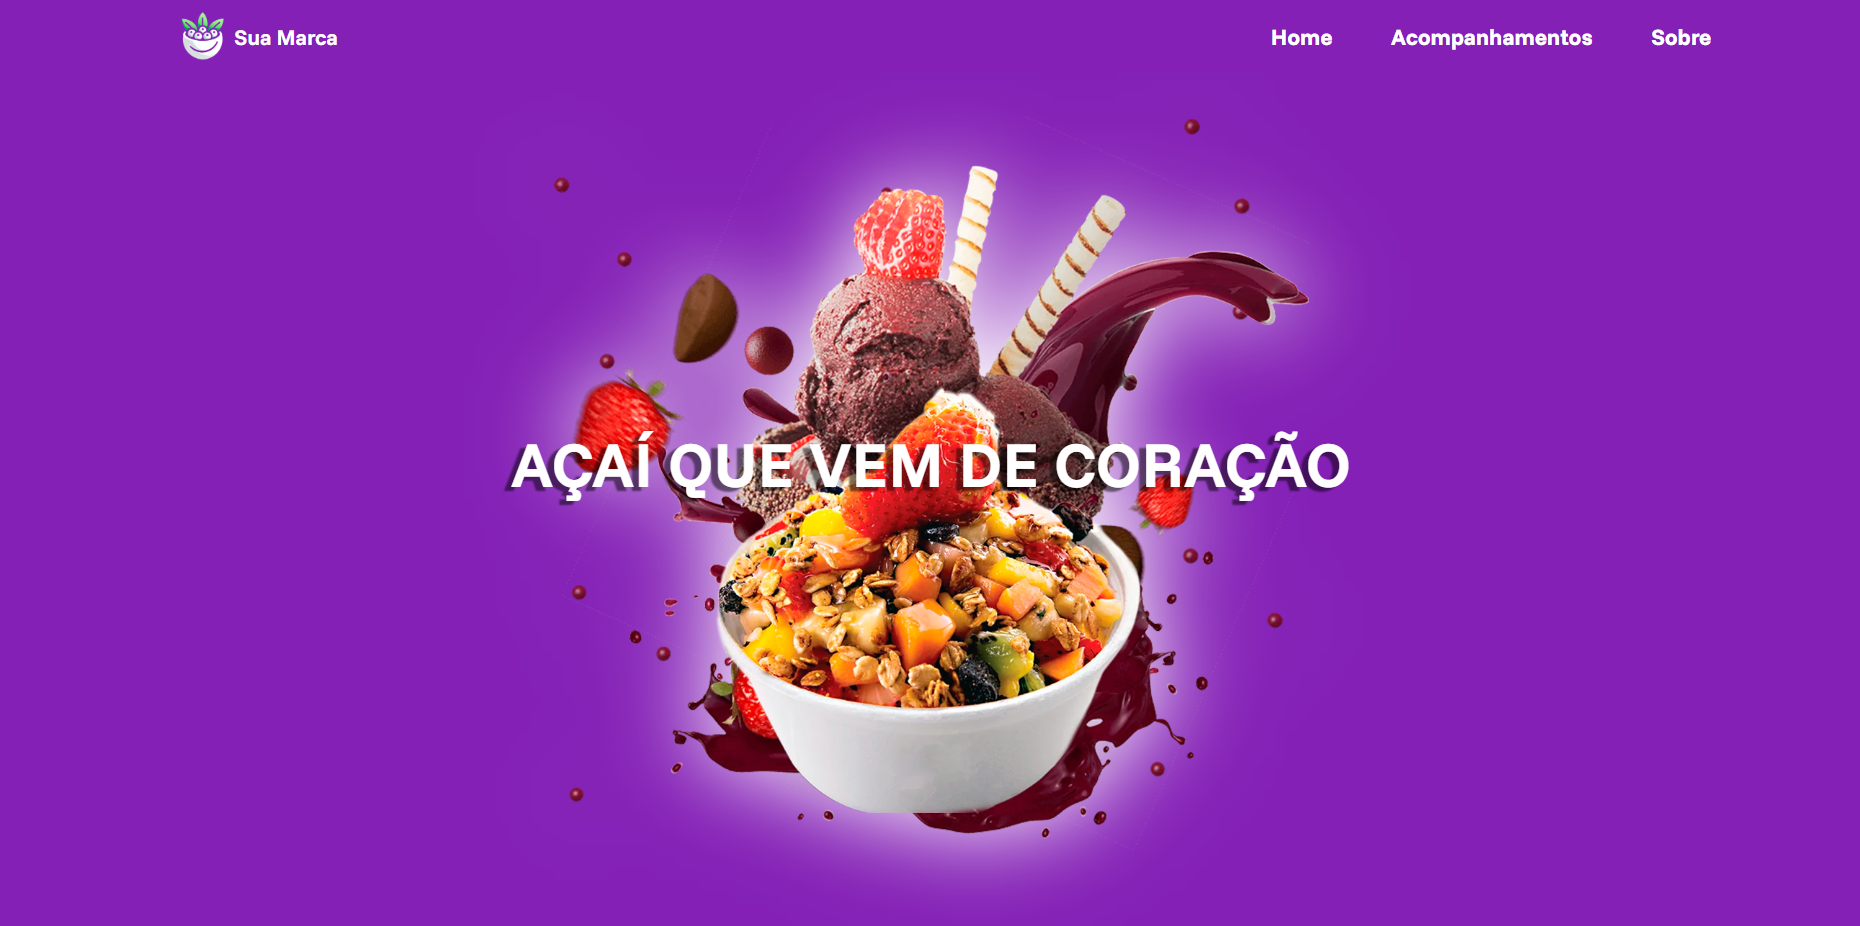
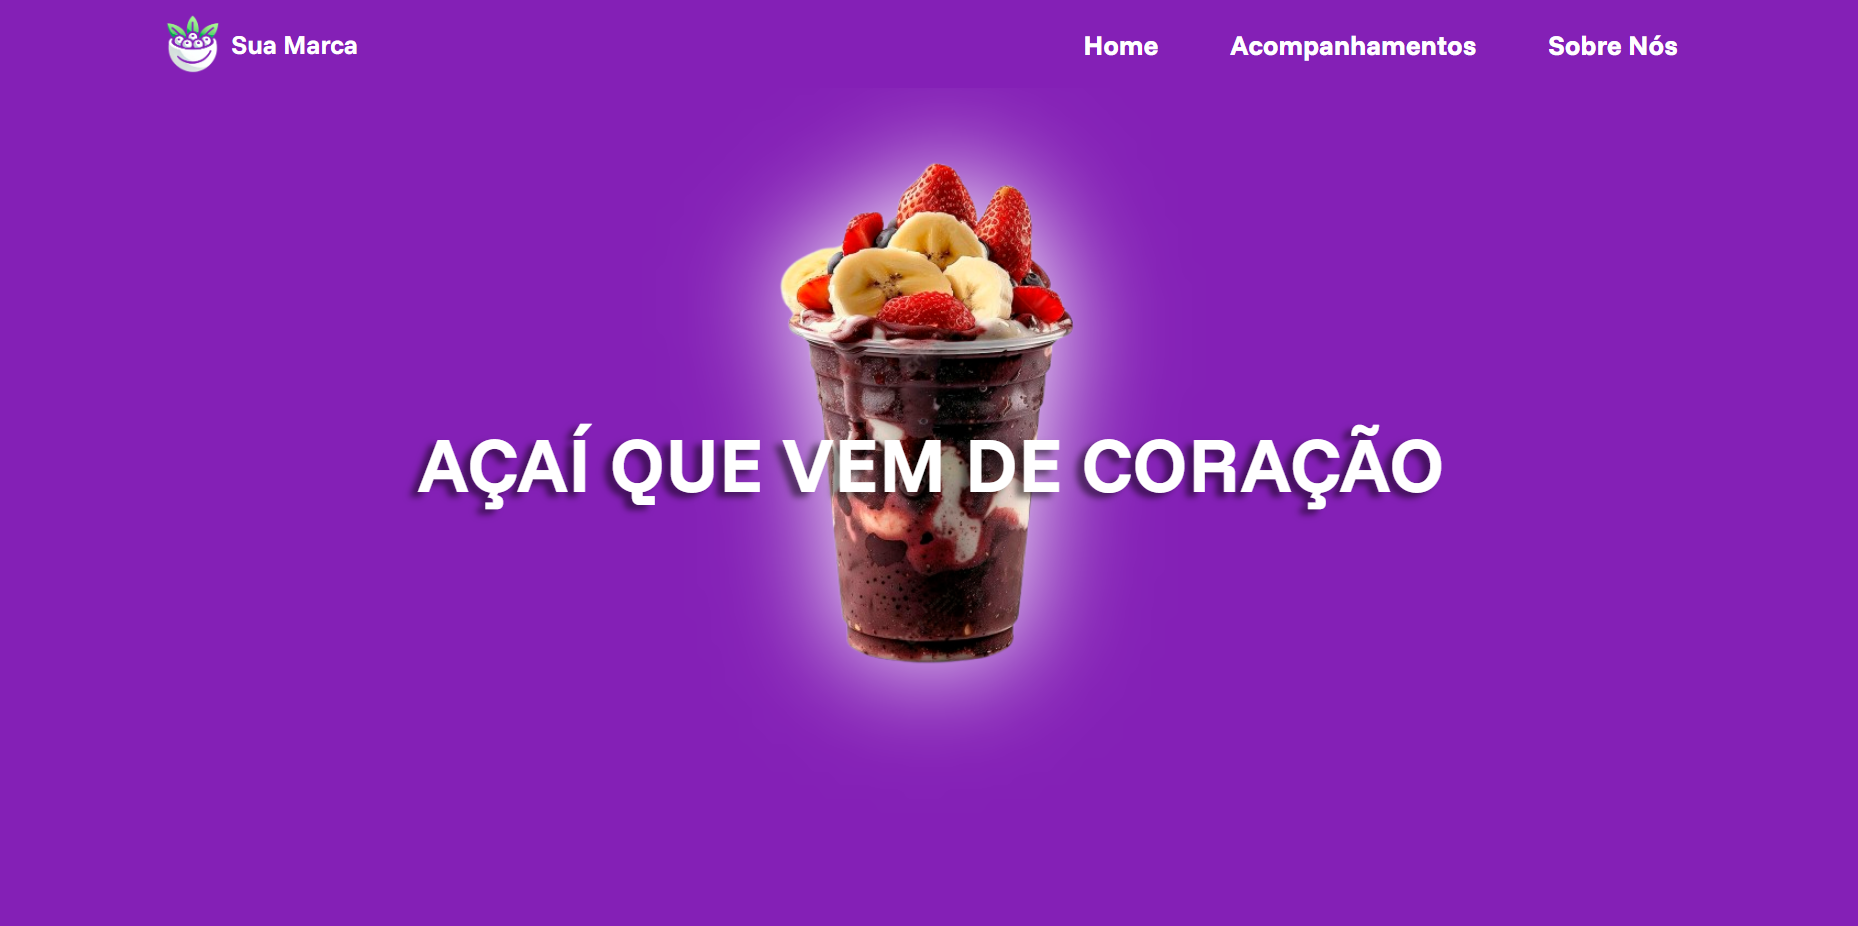
Updates

diff --git a/assets/index-CtQEeK4r.js b/assets/index-CtQEeK4r.js
@@ -1224,4 +1224,4 @@ Error generating stack: `+x.message+`
   @media (max-width: 910px) {
     display: block;
   }
-`,a_=({title:n,description:i,link:o,tools:l,imgLink:c,index:p})=>{console.log(p+"-"+i);const[m,_]=ae.useState(.1),g=p%2===0,T={hidden:{opacity:0,x:g?300:-300,transition:{duration:.5}},visible:{opacity:1,x:0,transition:{duration:1}}},E=()=>{window.innerWidth<768?_(.1):_(.4)};return ae.useEffect(()=>(E(),window.addEventListener("resize",E),()=>{window.removeEventListener("resize",E)}),[]),z.jsx(z.Fragment,{children:z.jsx(xs,{variants:T,threshold:m,children:z.jsxs(d5,{$side:g,children:[z.jsx(v5,{href:o,target:"_blank",rel:"noopener noreferrer"}),z.jsx(h5,{$side:g,href:o,target:"_blank",rel:"noopener noreferrer",children:z.jsx("img",{src:c,alt:"site teste"})}),z.jsx(p5,{$side:g,children:n}),z.jsx(m5,{$side:g,children:i}),z.jsx(g5,{$side:g,children:l.map((M,O)=>z.jsx("span",{children:M},O))})]})})})};a_.propTypes={title:vt.string.isRequired,description:vt.string.isRequired,link:vt.string.isRequired,tools:vt.array.isRequired,imgLink:vt.string.isRequired,index:vt.number.isRequired};const y5="Featured projects",_5="Projetos em destaque",l_=({language:n})=>{const i=n==="us"?l5:u5,o=ae.useRef(null);return z.jsxs(Zl,{id:"projects",ref:o,children:[z.jsxs(c5,{children:[n==="us"?y5:_5," ",z.jsx("hr",{})]}),z.jsx(f5,{children:i.map((l,c)=>z.jsx(a_,{title:l.title,description:l.description,link:l.link,tools:l.tools,imgLink:l.imgLink,index:c},c))})]})};l_.propTypes={language:vt.string};function x5(){const[n,i]=ae.useState(),[o,l]=ae.useState(!0),[c,p]=ae.useState(),m=o?ew:Jx,_=tw(n,o),g=()=>{const M=localStorage.getItem("colorPreference");i(M||"purple");const O=localStorage.getItem("languagePreference");p(O||"us");const D=localStorage.getItem("themePreference");if(D)l(D==="dark");else{const N=window.matchMedia("(prefers-color-scheme: dark)").matches;l(N)}};ae.useEffect(()=>{g()},[]);const w=M=>{i(M),localStorage.setItem("colorPreference",M)},T=()=>{const M=!o;l(M),localStorage.setItem("themePreference",M?"dark":"light")},E=()=>{const M=c==="us"?"br":"us";p(M),localStorage.setItem("languagePreference",M)};return z.jsxs(Kx,{theme:{...m,color:_},children:[z.jsx(nw,{}),z.jsx(J1,{handleThemeToggle:T,dark:o}),z.jsx(F1,{language:c}),z.jsx(q1,{handleColor:w,handleLanguage:E,language:c}),z.jsx(X1,{dark:o,language:c}),z.jsx(l_,{language:c}),z.jsx(K1,{language:c}),z.jsx(s_,{language:c}),z.jsx(Y1,{language:c,color:n}),z.jsx(t4,{})]})}X_.createRoot(document.getElementById("root")).render(z.jsx(ae.StrictMode,{children:z.jsx(x5,{})}));
+`,a_=({title:n,description:i,link:o,tools:l,imgLink:c,index:p})=>{const[m,_]=ae.useState(.1),g=p%2===0,T={hidden:{opacity:0,x:g?300:-300,transition:{duration:.5}},visible:{opacity:1,x:0,transition:{duration:1}}},E=()=>{window.innerWidth<768?_(.1):_(.4)};return ae.useEffect(()=>(E(),window.addEventListener("resize",E),()=>{window.removeEventListener("resize",E)}),[]),z.jsx(z.Fragment,{children:z.jsx(xs,{variants:T,threshold:m,children:z.jsxs(d5,{$side:g,children:[z.jsx(v5,{href:o,target:"_blank",rel:"noopener noreferrer"}),z.jsx(h5,{$side:g,href:o,target:"_blank",rel:"noopener noreferrer",children:z.jsx("img",{src:c,alt:n})}),z.jsx(p5,{$side:g,children:n}),z.jsx(m5,{$side:g,children:i}),z.jsx(g5,{$side:g,children:l.map((M,O)=>z.jsx("span",{children:M},O))})]})})})};a_.propTypes={title:vt.string.isRequired,description:vt.string.isRequired,link:vt.string.isRequired,tools:vt.array.isRequired,imgLink:vt.string.isRequired,index:vt.number.isRequired};const y5="Featured projects",_5="Projetos em destaque",l_=({language:n})=>{const i=n==="us"?l5:u5,o=ae.useRef(null);return z.jsxs(Zl,{id:"projects",ref:o,children:[z.jsxs(c5,{children:[n==="us"?y5:_5," ",z.jsx("hr",{})]}),z.jsx(f5,{children:i.map((l,c)=>z.jsx(a_,{title:l.title,description:l.description,link:l.link,tools:l.tools,imgLink:l.imgLink,index:c},c))})]})};l_.propTypes={language:vt.string};function x5(){const[n,i]=ae.useState(),[o,l]=ae.useState(!0),[c,p]=ae.useState(),m=o?ew:Jx,_=tw(n,o),g=()=>{const M=localStorage.getItem("colorPreference");i(M||"purple");const O=localStorage.getItem("languagePreference");p(O||"us");const D=localStorage.getItem("themePreference");if(D)l(D==="dark");else{const N=window.matchMedia("(prefers-color-scheme: dark)").matches;l(N)}};ae.useEffect(()=>{g()},[]);const w=M=>{i(M),localStorage.setItem("colorPreference",M)},T=()=>{const M=!o;l(M),localStorage.setItem("themePreference",M?"dark":"light")},E=()=>{const M=c==="us"?"br":"us";p(M),localStorage.setItem("languagePreference",M)};return z.jsxs(Kx,{theme:{...m,color:_},children:[z.jsx(nw,{}),z.jsx(J1,{handleThemeToggle:T,dark:o}),z.jsx(F1,{language:c}),z.jsx(q1,{handleColor:w,handleLanguage:E,language:c}),z.jsx(X1,{dark:o,language:c}),z.jsx(l_,{language:c}),z.jsx(K1,{language:c}),z.jsx(s_,{language:c}),z.jsx(Y1,{language:c,color:n}),z.jsx(t4,{})]})}X_.createRoot(document.getElementById("root")).render(z.jsx(ae.StrictMode,{children:z.jsx(x5,{})}));

diff --git a/index.html b/index.html
@@ -19,7 +19,7 @@
 
 
 
-    <script type="module" crossorigin src="/ReactPortfolio/assets/index-DJteEJQz.js"></script>
+    <script type="module" crossorigin src="/ReactPortfolio/assets/index-CtQEeK4r.js"></script>
     <link rel="stylesheet" crossorigin href="/ReactPortfolio/assets/index-AVtH2te4.css">
   </head>
   <body>
